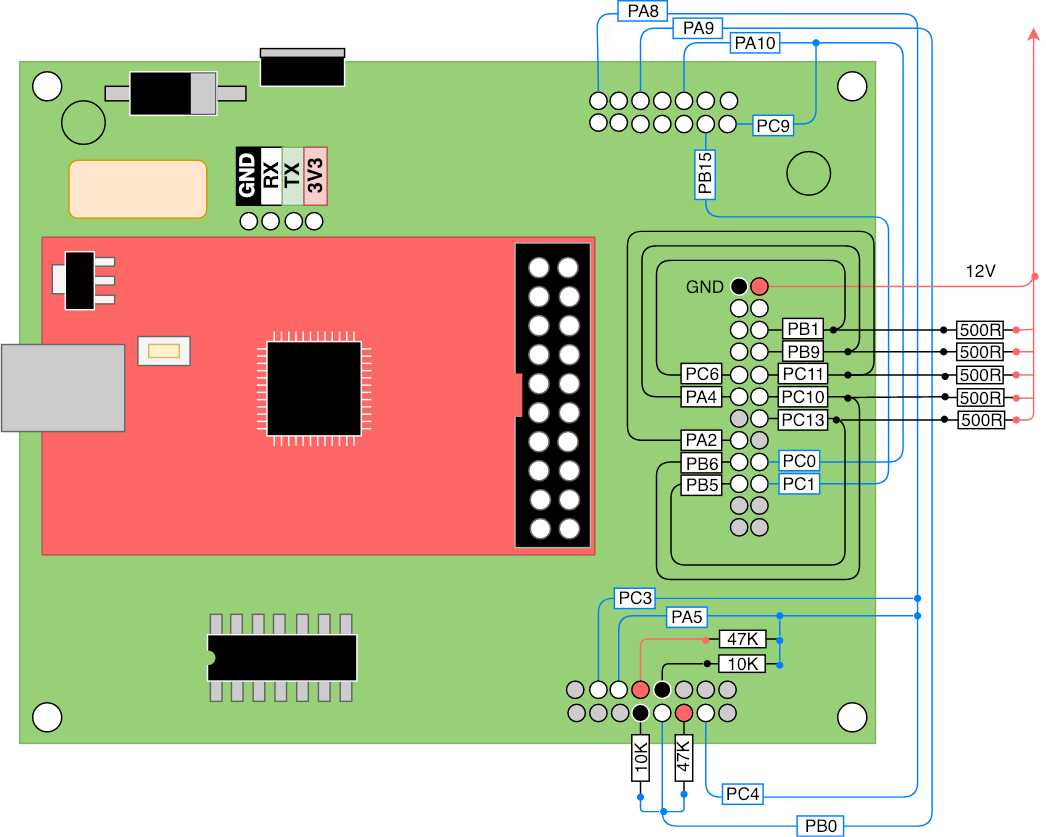
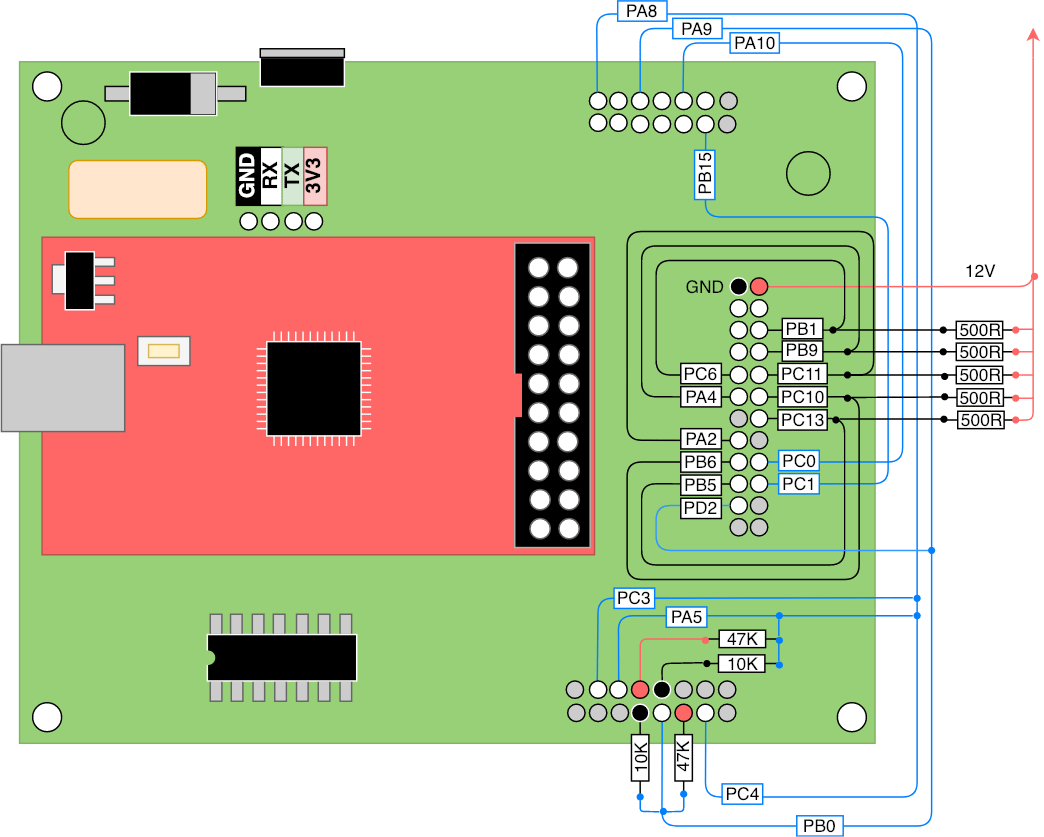
Added UART RX and HWCONFIG flag

diff --git a/stm32_test.c b/stm32_test.c
@@ -29,9 +29,12 @@
 #include <libopencm3/stm32/crc.h>
 #include <libopencm3/stm32/iwdg.h>
 #include <libopencm3/cm3/scb.h>
+#include <libopencm3/cm3/nvic.h>
 #include <libopencm3/stm32/timer.h>
 #include "hwdefs.h"
 #include "printf.h"
+
+void test_run();
 
 #define OCURMAX 4096
 #define NUM_FLOAT_PINS (sizeof(floatingPins) / sizeof(PINDEF))
@@ -63,6 +66,9 @@ static const PINDEF floatingPins[] =
 
 static const CONTINUITYDEF continuityPins[] =
 {
+   #ifdef HWCONFIG_REV1
+   { { "PB0", GPIOB, GPIO0 }, { "PD2", GPIOD, GPIO2 }, false, 0 },
+   #endif
    { { "PC8", GPIOC, GPIO8 }, { "PC5", GPIOC, GPIO5 }, true, 600 },
    { { "PB5", GPIOB, GPIO5 }, { "PC13", GPIOC, GPIO13 }, true, 600 },
    { { "PB6", GPIOB, GPIO6 }, { "PC10", GPIOC, GPIO10 }, true, 600 },
@@ -97,8 +103,14 @@ static void clock_setup(void)
 
 static void usart_setup(void)
 {
+    /* Enable the USART1 interrupt. */
+    nvic_enable_irq(NVIC_USART3_IRQ);
+
     gpio_set_mode(TERM_USART_TXPORT, GPIO_MODE_OUTPUT_50_MHZ,
                   GPIO_CNF_OUTPUT_ALTFN_PUSHPULL, TERM_USART_TXPIN);
+
+    gpio_set_mode(TERM_USART_RXPORT, GPIO_MODE_INPUT,
+                  GPIO_CNF_INPUT_FLOAT, TERM_USART_RXPIN);
 
     /* Setup UART parameters. */
     usart_set_baudrate(TERM_USART, USART_BAUDRATE);
@@ -108,8 +120,27 @@ static void usart_setup(void)
     usart_set_parity(TERM_USART, USART_PARITY_NONE);
     usart_set_flow_control(TERM_USART, USART_FLOWCONTROL_NONE);
 
+    /* Enable Receive interrupt. */
+    USART_CR1(TERM_USART) |= USART_CR1_RXNEIE;
+
     /* Finally enable the USART. */
     usart_enable(TERM_USART);
+}
+
+void usart3_isr(void)
+{
+    /* Check if we were called because of RXNE. */
+    if (((USART_CR1(USART3) & USART_CR1_RXNEIE) != 0) &&
+      ((USART_SR(USART3) & USART_SR_RXNE) != 0)) {
+
+    /* Retrieve the data from the peripheral. */
+    usart_recv(USART3);
+
+    /* Enable transmit interrupt so it sends back the data. */
+    USART_CR1(USART3) |= USART_CR1_TXEIE;
+
+    test_run();
+  }
 }
 
 /**
@@ -280,14 +311,14 @@ static bool test_inhibit()
    return gateOk;
 }
 
-static void blink()
+static void blink(uint32_t delay)
 {
    gpio_set_mode(GPIOC, GPIO_MODE_OUTPUT_50_MHZ, GPIO_CNF_OUTPUT_PUSHPULL, GPIO12);
 
    while(1)
    {
       gpio_toggle(GPIOC, GPIO12);
-      wait_us(100000);
+      wait_us(delay);
    }
 }
 
@@ -315,46 +346,55 @@ static void eval_result(bool result, bool* pass)
    }
 }
 
+void test_run()
+{
+    bool pass = true;
+
+    printf("Serial Number: %X%X%X\r\n", DESIG_UNIQUE_ID2, DESIG_UNIQUE_ID1, DESIG_UNIQUE_ID0);
+
+    for (uint32_t i = 0; i < NUM_FLOAT_PINS; i++)
+    {
+        printf("Float test pin %s ... ", floatingPins[i].name);
+        eval_result(test_floating(floatingPins[i]), &pass);
+    }
+
+    for (uint32_t i = 0; i < NUM_CONT_PINS; i++)
+    {
+        printf("Continuity test input: %s, output: %s ... ", continuityPins[i].in.name, continuityPins[i].out.name);
+        eval_result(test_continuity(continuityPins[i]), &pass);
+    }
+
+    //wait_us(100000);
+    printf("Testing Window Comparator ... ");
+    eval_result(test_comparator(), &pass);
+
+    printf("Testing Inhibit Circuitry ... ");
+    eval_result(test_inhibit(), &pass);
+
+    generate_resolver_excitation();
+
+    if (pass)
+    {
+        printf("\033[32;1;1mAll tests PASSED\033[0;0;0m\r\n");
+        //blink(100000);
+    }
+    else
+    {
+        printf("\033[31;1;1mAt least one test FAILED\033[0;0;0m\r\n");
+    }
+}
+
 int main(void)
 {
-   bool pass = true;
    clock_setup();
    usart_setup();
    tim_setup();
 
-   AFIO_MAPR |= AFIO_MAPR_SPI1_REMAP | AFIO_MAPR_SWJ_CFG_JTAG_OFF_SW_ON;
-   printf("Serial Number: %X%X%X\r\n", DESIG_UNIQUE_ID2, DESIG_UNIQUE_ID1, DESIG_UNIQUE_ID0);
+   AFIO_MAPR |= AFIO_MAPR_SPI1_REMAP; // | AFIO_MAPR_SWJ_CFG_JTAG_OFF_SW_ON;
 
-   for (uint32_t i = 0; i < NUM_FLOAT_PINS; i++)
-   {
-      printf("Float test pin %s ... ", floatingPins[i].name);
-      eval_result(test_floating(floatingPins[i]), &pass);
-   }
-
-   for (uint32_t i = 0; i < NUM_CONT_PINS; i++)
-   {
-      printf("Continuity test input: %s, output: %s ... ", continuityPins[i].in.name, continuityPins[i].out.name);
-      eval_result(test_continuity(continuityPins[i]), &pass);
-   }
-
-   //wait_us(100000);
-   printf("Testing Window Comparator ... ");
-   eval_result(test_comparator(), &pass);
-
-   printf("Testing Inhibit Circuitry ... ");
-   eval_result(test_inhibit(), &pass);
-
-   generate_resolver_excitation();
-
-   if (pass)
-   {
-      printf("\033[32;1;1mAll tests PASSED\033[0;0;0m\r\n");
-      blink();
-   }
-   else
-   {
-      printf("\033[31;1;1mAt least one test FAILED\033[0;0;0m\r\n");
-   }
+   test_run();
+   
+   blink(500000);
 
    return 0;
 }

diff --git a/hwdefs.h b/hwdefs.h
@@ -6,6 +6,8 @@
 #define TERM_USART USART3
 #define TERM_USART_TXPIN GPIO_USART3_TX
 #define TERM_USART_TXPORT GPIOB
+#define TERM_USART_RXPIN GPIO_USART3_RX
+#define TERM_USART_RXPORT GPIOB
 #define OVER_CUR_TIMER TIM4
 #define USART_BAUDRATE  115200
 

diff --git a/README.md b/README.md
@@ -18,4 +18,8 @@ Now you can compile stm32-sine by typing
 
 `make`
 
+or
+
+`make HWCONFIG=HWCONFIG_REV3`
+
 And upload it to your board using a JTAG/SWD adapter
